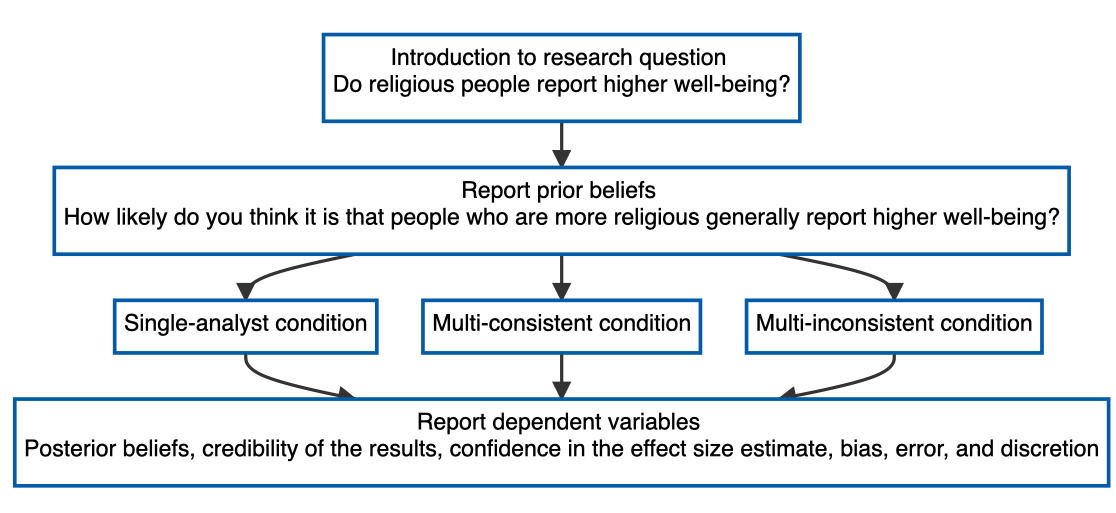
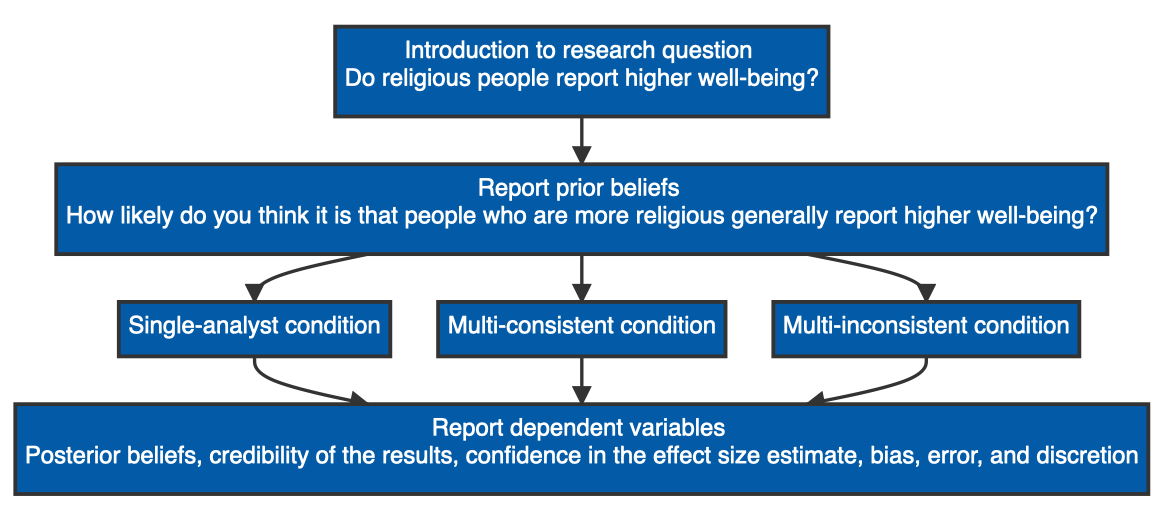
added participant flow chart (and changed experimental design diagram once again)

diff --git a/talk/index.html b/talk/index.html
@@ -677,6 +677,15 @@ name: results
 # Results
 
 ---
+class: left
+
+# Participants
+
+--
+
+&lt;img src="images/participants.png" width="110%" style="display: block; margin: auto;" /&gt;
+
+---
 class: inverse, center, middle
 name: discussion
 
